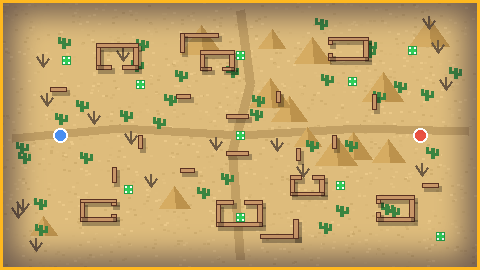
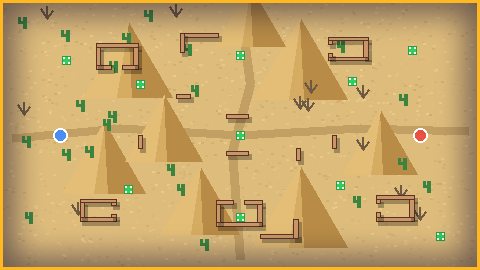
Deserto com montanhas grandes e menos objetos, colisores maiores, câmera sem atravessar parede, mira em bolinha
Claude-Session: https://claude.ai/code/session_01Gy1ZhtTUfAdtSfFvHqMVpD

diff --git a/jogo/js/mapas/deserto/mapa.js b/jogo/js/mapas/deserto/mapa.js
@@ -10,8 +10,8 @@ CAOS.registerMap({
   // casa de adobe: 4 paredes, uma delas com porta (door: 'N','S','W','E')
   const house=(x,y,w,h,door)=>{const r=[],sd=(a,b,ww,hh,hor,dr)=>{if(!dr)r.push([a,b,ww,hh]);else if(hor){r.push([a,b,(ww-g)/2,hh],[a+(ww+g)/2,b,(ww-g)/2,hh])}else{r.push([a,b,ww,(hh-g)/2],[a,b+(hh+g)/2,ww,(hh-g)/2])}};
    sd(x,y,w,T,1,door==='N');sd(x,y+h-T,w,T,1,door==='S');sd(x,y+T,T,h-2*T,0,door==='W');sd(x+w-T,y+T,T,h-2*T,0,door==='E');return r};
-  const casas=[...house(480,260,210,150,'S'),...house(1640,220,200,140,'W'),...house(1080,1190,230,150,'N'),...house(1880,1160,190,150,'W'),...house(400,1180,180,130,'E'),...house(1000,300,170,120,'S'),...house(1450,1040,170,120,'N')];
-  const cover=[[880,560,70,24],[1380,540,24,70],[900,1000,70,24],[1480,880,24,70],[690,800,24,80],[1660,800,24,80],[1130,680,110,24],[1130,900,110,24],[250,520,80,24],[2110,1090,80,24],[1860,560,24,90],[560,990,24,90],[900,200,190,24],[900,200,24,110],[1300,1390,190,24],[1466,1300,24,114]];
+  const casas=[...house(480,260,210,150,'S'),...house(1640,220,200,140,'W'),...house(1080,1190,230,150,'N'),...house(1880,1160,190,150,'W'),...house(400,1180,180,130,'E'),];
+  const cover=[[880,560,70,24],[1480,880,24,70],[690,800,24,80],[1660,800,24,80],[1130,680,110,24],[1130,900,110,24],[900,200,190,24],[900,200,24,110],[1300,1390,190,24],[1466,1300,24,114]];
   return [[0,-20,W,20],[0,H,W,20],[-20,0,20,H],[W,0,20,H],...casas,...cover];
  },
  drawFloor(g){
@@ -23,34 +23,34 @@ CAOS.registerMap({
   let sd=11;const R=()=>(sd=(sd*1664525+1013904223)>>>0)/4294967296,rr=(a,b)=>a+R()*(b-a);
   const L=c=>new THREE.MeshLambertMaterial({color:c});
   const keep=[G.map.playerSpawn,G.map.enemySpawn,...G.kits.map(k=>[k.x,k.y])],put=[],base=walls.slice(4);
-  const ok=(x,z,r)=>x>r+30&&z>r+30&&x<W-r-30&&z<H-r-30&&!walls.some(([a,b,w,h])=>x>a-r-8&&x<a+w+r+8&&z>b-r-8&&z<b+h+r+8)&&!keep.some(([a,b])=>Math.hypot(x-a,z-b)<r+80)&&!put.some(([a,b,q])=>Math.hypot(x-a,z-b)<r+q+6);
+  const ok=(x,z,r)=>x>r+30&&z>r+30&&x<W-r-30&&z<H-r-30&&!walls.some(([a,b,w,h])=>x>a-r-8&&x<a+w+r+8&&z>b-r-8&&z<b+h+r+8)&&!keep.some(([a,b])=>Math.hypot(x-a,z-b)<r+80)&&!put.some(([a,b,q])=>Math.hypot(x-a,z-b)<r+q+34);
   const add=(x,z,r)=>put.push([x,z,r]);
   const MD=[[],[]],FM=[[],[],[]],TR=[],AR=[],DT=[],DB=[],BS=[[],[]],RK=[[],[]],MS=[],CR=[],BA=[[],[]],PT=[],BC=[],FL=[];
   const place=(n,r,fn)=>{for(let c=0,t=0;c<n&&t<n*60;t++){const x=rr(60,W-60),z=rr(60,H-60);if(ok(x,z,r)){fn(x,z);c++}}};
   // trilhas de terra batida (por baixo de tudo): leste-oeste e norte-sul, curvando
   const trail=(x0,z0,x1,z1,amp)=>{const n=22;let px=x0,pz=z0;for(let i=1;i<=n;i++){const u=i/n,x=x0+(x1-x0)*u+Math.sin(u*6.28)*amp*.3,z=z0+(z1-z0)*u+Math.sin(u*9.4)*amp;const dx=x-px,dz=z-pz;PT.push([(x+px)/2,.4,(z+pz)/2,Math.hypot(dx,dz)+6,1,rr(40,52),-Math.atan2(dz,dx)]);px=x;pz=z}};
   trail(60,820,W-60,780,90);trail(1200,60,1160,H-60,120);trail(300,820,700,500,40);
-  // montanhas de areia (colidem; subida é um cone largo)
-  place(13,100,(x,z)=>{const r=rr(70,115),h=rr(95,140),v=R()<.5?0:1;MD[v].push([x,h/2,z,r,h,r,rr(0,6)]);MD[v].push([x+r*.45,h*.3,z+r*.2,r*.6,h*.6,r*.6,rr(0,6)]);walls.push([x-r*.5,z-r*.5,r,r]);add(x,z,r*.8)});
+  // montanhas de areia GRANDES (colidem: o colisor cobre quase toda a base)
+  place(8,190,(x,z)=>{const r=rr(120,190),h=rr(170,260),v=R()<.5?0:1;MD[v].push([x,h/2,z,r,h,r,rr(0,6)]);MD[v].push([x+r*.3,h*.3,z+r*.15,r*.55,h*.6,r*.55,rr(0,6)]);walls.push([x-r*.85,z-r*.85,r*1.7,r*1.7]);add(x,z,r)});
   // mesas de pedra vermelha
-  place(6,60,(x,z)=>{const r=rr(40,60),h=rr(60,100);MS.push([x,h/2,z,r,h,r,rr(0,6)]);walls.push([x-r*.75,z-r*.75,r*1.5,r*1.5]);add(x,z,r)});
+  place(4,70,(x,z)=>{const r=rr(40,60),h=rr(60,100);MS.push([x,h/2,z,r,h,r,rr(0,6)]);walls.push([x-r*.95,z-r*.95,r*1.9,r*1.9]);add(x,z,r)});
   // cactos grandes (saguaro): tronco + 1 ou 2 braços
-  place(42,16,(x,z)=>{const k=R()<.3?rr(1.2,1.7):rr(1.8,2.8),H0=58*k;TR.push([x,H0/2,z,1,H0,1]);
+  place(22,34,(x,z)=>{const k=R()<.3?rr(1.2,1.7):rr(1.8,2.8),H0=58*k;TR.push([x,H0/2,z,1,H0,1]);
    for(let a=0,na=R()<.5?1:2;a<na;a++){const ry=rr(0,6.28),yy=H0*rr(.3,.55),ex=x+Math.cos(ry)*15,ez=z-Math.sin(ry)*15,vh=H0*rr(.22,.38);
     AR.push([x+Math.cos(ry)*8.5,yy,z-Math.sin(ry)*8.5,.72,13,.72,ry,1.5708]);AR.push([ex,yy+vh/2,ez,.72,vh,.72])}
-   walls.push([x-5,z-5,10,10]);add(x,z,16)});
+   walls.push([x-7,z-7,14,14]);add(x,z,18)});
   // cactos redondos
-  place(26,12,(x,z)=>{const k=rr(1,1.8);BC.push([x,6*k,z,k,k*.85,k]);if(R()<.5)FL.push([x,12*k,z,.7,.7,.7]);add(x,z,10*k)});
+  place(12,26,(x,z)=>{const k=rr(1,1.8);BC.push([x,6*k,z,k,k*.85,k]);if(R()<.5)FL.push([x,12*k,z,.7,.7,.7]);walls.push([x-6*k,z-6*k,12*k,12*k]);add(x,z,10*k)});
   // árvores secas grandes (tronco retorcido + galhos)
-  place(20,22,(x,z)=>{const Ht=rr(70,125);DT.push([x,Ht/2,z,1,Ht,1]);for(let b=0,nb=3+((R()*2)|0);b<nb;b++){const ry=rr(0,6.28),tl=rr(.6,1.1),lb=Ht*rr(.3,.5),yb=Ht*rr(.55,.9);
+  place(11,44,(x,z)=>{const Ht=rr(70,125);DT.push([x,Ht/2,z,1,Ht,1]);for(let b=0,nb=3+((R()*2)|0);b<nb;b++){const ry=rr(0,6.28),tl=rr(.6,1.1),lb=Ht*rr(.3,.5),yb=Ht*rr(.55,.9);
     DB.push([x+Math.sin(tl)*Math.cos(ry)*lb/2,yb+Math.cos(tl)*lb/2,z-Math.sin(tl)*Math.sin(ry)*lb/2,.55,lb,.55,ry,-tl])}
-   walls.push([x-4,z-4,8,8]);add(x,z,22)});
+   walls.push([x-5,z-5,10,10]);add(x,z,24)});
   // arbustos secos / bolas de mato
-  place(60,16,(x,z)=>{const k=rr(1.2,2.2);BS[R()<.5?0:1].push([x,4*k,z,k,.6*k,k]);add(x,z,9*k)});
+  place(22,30,(x,z)=>{const k=rr(1.2,2.2);BS[R()<.5?0:1].push([x,4*k,z,k,.6*k,k]);add(x,z,9*k)});
   // pedras de arenito
-  place(24,34,(x,z)=>{const r=rr(20,40);RK[R()<.5?0:1].push([x,r*.4,z,r,r*.75,r*rr(.8,1.1),rr(0,6)]);walls.push([x-r*.8,z-r*.8,r*1.6,r*1.6]);add(x,z,r)});
+  place(12,44,(x,z)=>{const r=rr(24,42);RK[R()<.5?0:1].push([x,r*.4,z,r,r*.75,r,rr(0,6)]);walls.push([x-r*.95,z-r*.95,r*1.9,r*1.9]);add(x,z,r)});
   // caixotes e barris encostados nas casas/muros
-  for(let n=0,tr=0;n<16&&tr<400;tr++){const w=base[(R()*base.length)|0],s=R()<.5?-1:1,x=R()<.5?w[0]+rr(0,w[2]):w[0]+(s<0?-14:w[2]+14),z=x<w[0]||x>w[0]+w[2]?w[1]+rr(0,w[3]):w[1]+(s<0?-14:w[3]+14);
+  for(let n=0,tr=0;n<8&&tr<400;tr++){const w=base[(R()*base.length)|0],s=R()<.5?-1:1,x=R()<.5?w[0]+rr(0,w[2]):w[0]+(s<0?-14:w[2]+14),z=x<w[0]||x>w[0]+w[2]?w[1]+rr(0,w[3]):w[1]+(s<0?-14:w[3]+14);
    if(!ok(x,z,9))continue;n++;
    if(n%3===0){BA[n%2].push([x,8,z,1,1,1]);walls.push([x-7,z-7,14,14]);add(x,z,14)}
    else{const y=rr(0,6);CR.push([x,8,z,1,1,1,y]);walls.push([x-8,z-8,16,16]);add(x,z,16);if(R()<.4)CR.push([x,24,z,.85,.85,.85,y+.5])}}

diff --git a/index.html b/index.html
@@ -53,7 +53,7 @@ h1{font-size:clamp(44px,7vw,96px);overflow-wrap:anywhere}
 <main><section class="hero" id="inicio"><div><div class="developer-credit">Desenvolvido por <span>Yago Emídio</span></div><div class="tagline"><i></i> FPS · ARENA · MULTIPLAYER</div><h1>ENTRE NO<br><span class="gradient">CAOS.</span></h1><p class="desc">Uma arena de combate em constante evolução. Movimente-se, pense rápido e encare o desafio. O campo de batalha está sendo preparado.</p><div class="buttons"><a class="btn main" href="#jogos">⌁ &nbsp; VER JOGOS</a></div></div><div class="art"><div class="ring"></div><div class="ring two"></div><div class="art-number">FPS · BETA</div><div class="art-word">C/BR</div><div class="art-caption">AÇÃO • ESTRATÉGIA • ARENA</div></div></section>
 <div class="strip"><span><b>CAOS BR FPS</b> / PROJETO INDEPENDENTE</span><span>DESENVOLVIMENTO CONTÍNUO</span><span>FEITO PARA JOGADORES</span></div>
 <section class="section" id="jogos"><h2>Projetos</h2><article class="game-card"><img class="game-cover" src="caos-br-fps.png" alt="Capa do jogo CAOS BR FPS"><div class="game-info"><h3>CAOS BR FPS</h3><p>Já dá para jogar direto por aqui. O jogo está em versão beta e recebe novidades o tempo todo.</p><span class="game-status">BETA</span><div class="game-launch"><p class="game-description">Prepare-se para entrar na arena. No celular, o jogo abre na horizontal: gire o aparelho se for preciso.</p><button class="play-button" type="button" onclick="openGame()">▶ &nbsp; JOGAR</button></div></div></article></section><section class="section about"><h2>Sobre o projeto</h2><p>CAOS BR é um projeto independente. O site reúne informações, novidades e futuras publicações em uma interface adaptada para celular e computador.</p></section><div id="game-screen" class="game-screen" aria-hidden="true"><div class="game-screen-header"><span>CAOS BR FPS</span><button class="exit-game" onclick="closeGame()">← VOLTAR À SELEÇÃO</button></div><div id="game-play-area" class="game-play-area"></div></div></main><footer class="foot"><span>CAOS BR FPS</span><span>UMA NOVA EXPERIÊNCIA ESTÁ SENDO PREPARADA.</span></footer>
-<script>function closeMenu(){document.getElementById('drawer').classList.remove('open')}var GAME_URL="jogo/index.html?v=15";
+<script>function closeMenu(){document.getElementById('drawer').classList.remove('open')}var GAME_URL="jogo/index.html?v=17";
 function openGame(){var s=document.getElementById("game-screen"),a=document.getElementById("game-play-area");s.classList.add("open");s.setAttribute("aria-hidden","false");document.body.classList.add("game-open");
 /* o jogo só é carregado ao clicar em JOGAR */
 if(!a.querySelector("iframe")){var f=document.createElement("iframe");f.title="CAOS BR FPS";f.src=GAME_URL;f.setAttribute("allow","fullscreen; autoplay");f.setAttribute("allowfullscreen","");a.appendChild(f);f.addEventListener("load",function(){try{f.contentWindow.focus()}catch(e){}})}

diff --git a/jogo/index.html b/jogo/index.html
@@ -5,10 +5,10 @@
 <meta charset="utf-8">
 <meta name="viewport" content="width=device-width, initial-scale=1, viewport-fit=cover">
 <title>Caos BR FPS</title>
-<link rel="stylesheet" href="css/base.css?v=15">
-<link rel="stylesheet" href="css/lobby.css?v=15">
-<link rel="stylesheet" href="css/overlay.css?v=15">
-<link rel="stylesheet" href="css/jogo.css?v=15">
+<link rel="stylesheet" href="css/base.css?v=17">
+<link rel="stylesheet" href="css/lobby.css?v=17">
+<link rel="stylesheet" href="css/overlay.css?v=17">
+<link rel="stylesheet" href="css/jogo.css?v=17">
 </head>
 <body>
 <div id="wrap"><div id="stage">
@@ -58,16 +58,16 @@
  <div id="hudbar" style="display:none">ARRASTE OS BOTÕES <button class="btn" id="hsv">SALVAR</button><button class="btn" id="hrs">RESTAURAR</button></div>
 </div></div>
 <!-- Só o essencial do lobby carrega aqui. three.js, personagens, mapa e modo são carregados sob demanda (carregamento/carregador.js). -->
-<script src="js/sistemas/utils.js?v=15"></script>
-<script src="js/sistemas/estado.js?v=15"></script>
-<script src="js/carregamento/manifesto.js?v=15"></script>
-<script src="js/carregamento/carregador.js?v=15"></script>
-<script src="js/sistemas/overlay.js?v=15"></script>
-<script src="js/sistemas/armas-dados.js?v=15"></script>
-<script src="js/sistemas/config.js?v=15"></script>
-<script src="js/sistemas/economia.js?v=15"></script>
-<script src="js/sistemas/layout-hud.js?v=15"></script>
-<script src="js/lobby/lobby.js?v=15"></script>
-<script src="js/lobby/heroi3d.js?v=15"></script>
+<script src="js/sistemas/utils.js?v=17"></script>
+<script src="js/sistemas/estado.js?v=17"></script>
+<script src="js/carregamento/manifesto.js?v=17"></script>
+<script src="js/carregamento/carregador.js?v=17"></script>
+<script src="js/sistemas/overlay.js?v=17"></script>
+<script src="js/sistemas/armas-dados.js?v=17"></script>
+<script src="js/sistemas/config.js?v=17"></script>
+<script src="js/sistemas/economia.js?v=17"></script>
+<script src="js/sistemas/layout-hud.js?v=17"></script>
+<script src="js/lobby/lobby.js?v=17"></script>
+<script src="js/lobby/heroi3d.js?v=17"></script>
 </body>
 </html>

diff --git a/jogo/js/sistemas/hud.js b/jogo/js/sistemas/hud.js
@@ -2,11 +2,11 @@
 // ===== HUD =====
 function bar(x,n,hp,col){cx.fillStyle='#000a';cx.fillRect(x,8,200,18);cx.fillStyle=col;cx.fillRect(x+2,10,196*hp/200,14);cx.fillStyle='#fff';cx.font='bold 10px monospace';cx.fillText(n+' '+hp,x+6,21)}
 function gun(x,y,i,c){cx.fillStyle=c;const L=[22,40,46,34,56,28][i];cx.fillRect(x,y,L,7);cx.fillRect(x+4,y+7,7,10);if(i>0)cx.fillRect(x+L*.45,y+7,6,9)}
-function drawCh(){
- const z=zoom?1.3:1;cx.save();const col=onTarget()?'#ff2b2b':'#fff';cx.fillStyle=col;cx.strokeStyle=col;cx.lineWidth=2*z;
- 
- cx.strokeStyle='#000b';cx.lineWidth=1.5;for(const[dx,dy]of[[-1,0],[1,0],[0,-1],[0,1]]){const g=5*z,l=10*z,t=3*z,x=dx?(dx<0?400-g-l:400+g):400-t/2,y=dy?(dy<0?225-g-l:225+g):225-t/2,w=dx?l:t,h=dx?t:l;cx.fillRect(x,y,w,h);cx.strokeRect(x,y,w,h)}
- cx.beginPath();cx.arc(400,225,1.6*z,0,6.28);cx.fill();cx.restore();
+function drawCh(){   // mira: bolinha (anel + ponto) estilo Free Fire; fica vermelha quando está em cima de um alvo
+ const z=zoom?.8:1,col=onTarget()?'#ff3b3b':'#ffffff';cx.save();
+ cx.lineWidth=4*z;cx.strokeStyle='#0008';cx.beginPath();cx.arc(400,225,7*z,0,6.283);cx.stroke();
+ cx.lineWidth=2*z;cx.strokeStyle=col;cx.beginPath();cx.arc(400,225,7*z,0,6.283);cx.stroke();
+ cx.fillStyle='#0008';cx.beginPath();cx.arc(400,225,3*z,0,6.283);cx.fill();cx.fillStyle=col;cx.beginPath();cx.arc(400,225,2*z,0,6.283);cx.fill();cx.restore();
 }
 function draw(){
  draw3d();

diff --git a/jogo/js/mapas/ilha/mapa.js b/jogo/js/mapas/ilha/mapa.js
@@ -34,7 +34,7 @@ CAOS.registerMap({
   const pine=(x,z,v,k)=>{const o=PN[v],kx=.7*k;o.t.push([x,13*k,z,kx,k,kx]);o.a.push([x,37*k,z,kx,k,kx,rr(0,6)]);o.b.push([x,55*k,z,kx,k,kx]);o.c.push([x,73*k,z,kx,k,kx]);walls.push([x-4*kx,z-4*kx,8*kx,8*kx]);add(x,z,18*kx)};
   const round=(x,z,v,k)=>{const o=RT[v],kx=.8*k;o.t.push([x,11*k,z,kx,k,kx]);o.a.push([x,36*k,z,kx,.92*k,kx]);o.b.push([x+7*kx,45*k,z-4*kx,kx,k,kx]);o.c.push([x-8*kx,41*k,z+5*kx,kx,k,kx]);walls.push([x-4*kx,z-4*kx,8*kx,8*kx]);add(x,z,22*kx)};
   const bush=(x,z)=>{const k=rr(1.4,2.4);BU[R()<.5?0:1].push([x,5*k,z,k,.7*k,k]);add(x,z,10*k)};
-  const rock=(x,z)=>{const r=rr(20,38);RB[R()<.5?0:1].push([x,r*.4,z,r,r*.75,r*rr(.8,1.1),rr(0,6)]);walls.push([x-r*.8,z-r*.8,r*1.6,r*1.6]);add(x,z,r)};
+  const rock=(x,z)=>{const r=rr(20,38);RB[R()<.5?0:1].push([x,r*.4,z,r,r*.75,r*rr(.8,1.1),rr(0,6)]);walls.push([x-r*.95,z-r*.95,r*1.9,r*1.9]);add(x,z,r)};
   const pebbles=(x,z)=>{for(let i=0;i<3;i++){const s=rr(2.5,5.5);RS.push([x+rr(-14,14),s*.4,z+rr(-14,14),s,s*.8,s,rr(0,6)])}add(x,z,16)};
   // 1) cenário espalhado em grade com desvio (cobre o mapa todo de forma uniforme)
   for(let gx=100;gx<W-60;gx+=120)for(let gz=100;gz<H-60;gz+=120){

diff --git a/jogo/js/sistemas/combate.js b/jogo/js/sistemas/combate.js
@@ -6,6 +6,10 @@ function camRay(){
  const p=G.p,c=Math.cos(ang),s=Math.sin(ang),dd=zoom?60:78,sh=zoom?10:20,dh=dd*Math.cos(pit),st=p.st||0,z=p.z||0;
  const o={x:cl(p.x-c*dh-s*sh,25,W-25),y:Math.max(10,SM([52,40,26])+z*.8-dd*Math.sin(pit)),z:cl(p.y-s*dh+c*sh,25,H-25)};
  const t={x:p.x+c*300-s*sh,y:SM([40,30,18])+z*.6+Math.tan(pit)*300,z:p.y+s*300+c*sh};
+ {// câmera não atravessa parede: encurta o recuo até antes do 1º obstáculo
+  const ex=p.x,ez=p.y,n=Math.max(1,Math.ceil(Math.hypot(o.x-ex,o.z-ez)/6));let kf=1;
+  for(let i=1;i<=n;i++){const u=i/n,x=ex+(o.x-ex)*u,z=ez+(o.z-ez)*u,y=40+(o.y-40)*u;if(y<WALLH+4&&hitW(x,z,7)){kf=Math.max(.12,(i-1)/n*.92);break}}
+  if(kf<1){o.x=ex+(o.x-ex)*kf;o.z=ez+(o.z-ez)*kf;o.y=40+(o.y-40)*kf}}
  const dx=t.x-o.x,dy=t.y-o.y,dz=t.z-o.z,l=Math.hypot(dx,dy,dz)||1;
  return{o,t,d:{x:dx/l,y:dy/l,z:dz/l}};
 }

diff --git a/jogo/js/carregamento/manifesto.js b/jogo/js/carregamento/manifesto.js
@@ -1,6 +1,6 @@
 /* CAOS BR FPS · MANIFESTO: lista de mapas, modos e arquivos. Para adicionar mapa/modo, registre aqui */
 const CAOS={
- ver:'15',   // MUDE este número (e o ?v= do index.html e do site) a cada atualização, para o navegador baixar os arquivos novos
+ ver:'17',   // MUDE este número (e o ?v= do index.html e do site) a cada atualização, para o navegador baixar os arquivos novos
  maps:{}, modes:{}, map:null, sel:{mode:null,map:null},
  manifest:{
   three:'https://cdnjs.cloudflare.com/ajax/libs/three.js/r128/three.min.js',

diff --git a/CLAUDE.md b/CLAUDE.md
@@ -101,3 +101,5 @@ Mensagens curtas em português, no imperativo (ex.: "Corrige tela esticada no ce
 - Mapas: `ilha`, `deserto` (casas de adobe, montanhas de areia, cactos grandes, árvores secas, mesas, trilhas) e `estande`. Cada um em `jogo/js/mapas/<id>/mapa.js`, registrado em `manifesto.js` com `img` (prévia em `jogo/img/mapas/<id>.png`, 480x270) e listado em `maps:[...]` dos modos que podem usá-lo.
 - O lobby abre a tela ESCOLHER MAPA (`openMaps()` em `lobby.js`) com imagem + nome de cada mapa do modo. Mapa novo: copie `_modelo`, registre no manifesto, ponha a prévia em `img/mapas/` e confira (spawns/kits fora de paredes e alcançáveis).
 - Campo opcional `waterColor` no mapa troca a cor do "mar" fora da borda (deserto usa areia).
+- Colisores dos objetos devem cobrir quase toda a base visual (montanhas ~.85 do raio, pedras ~.95), senão o boneco "entra" neles.
+- A câmera em 3ª pessoa não atravessa parede: `camRay()` em `combate.js` encurta o recuo até antes do 1º obstáculo. Mira = bolinha (anel + ponto) em `drawCh()` no `hud.js`.
